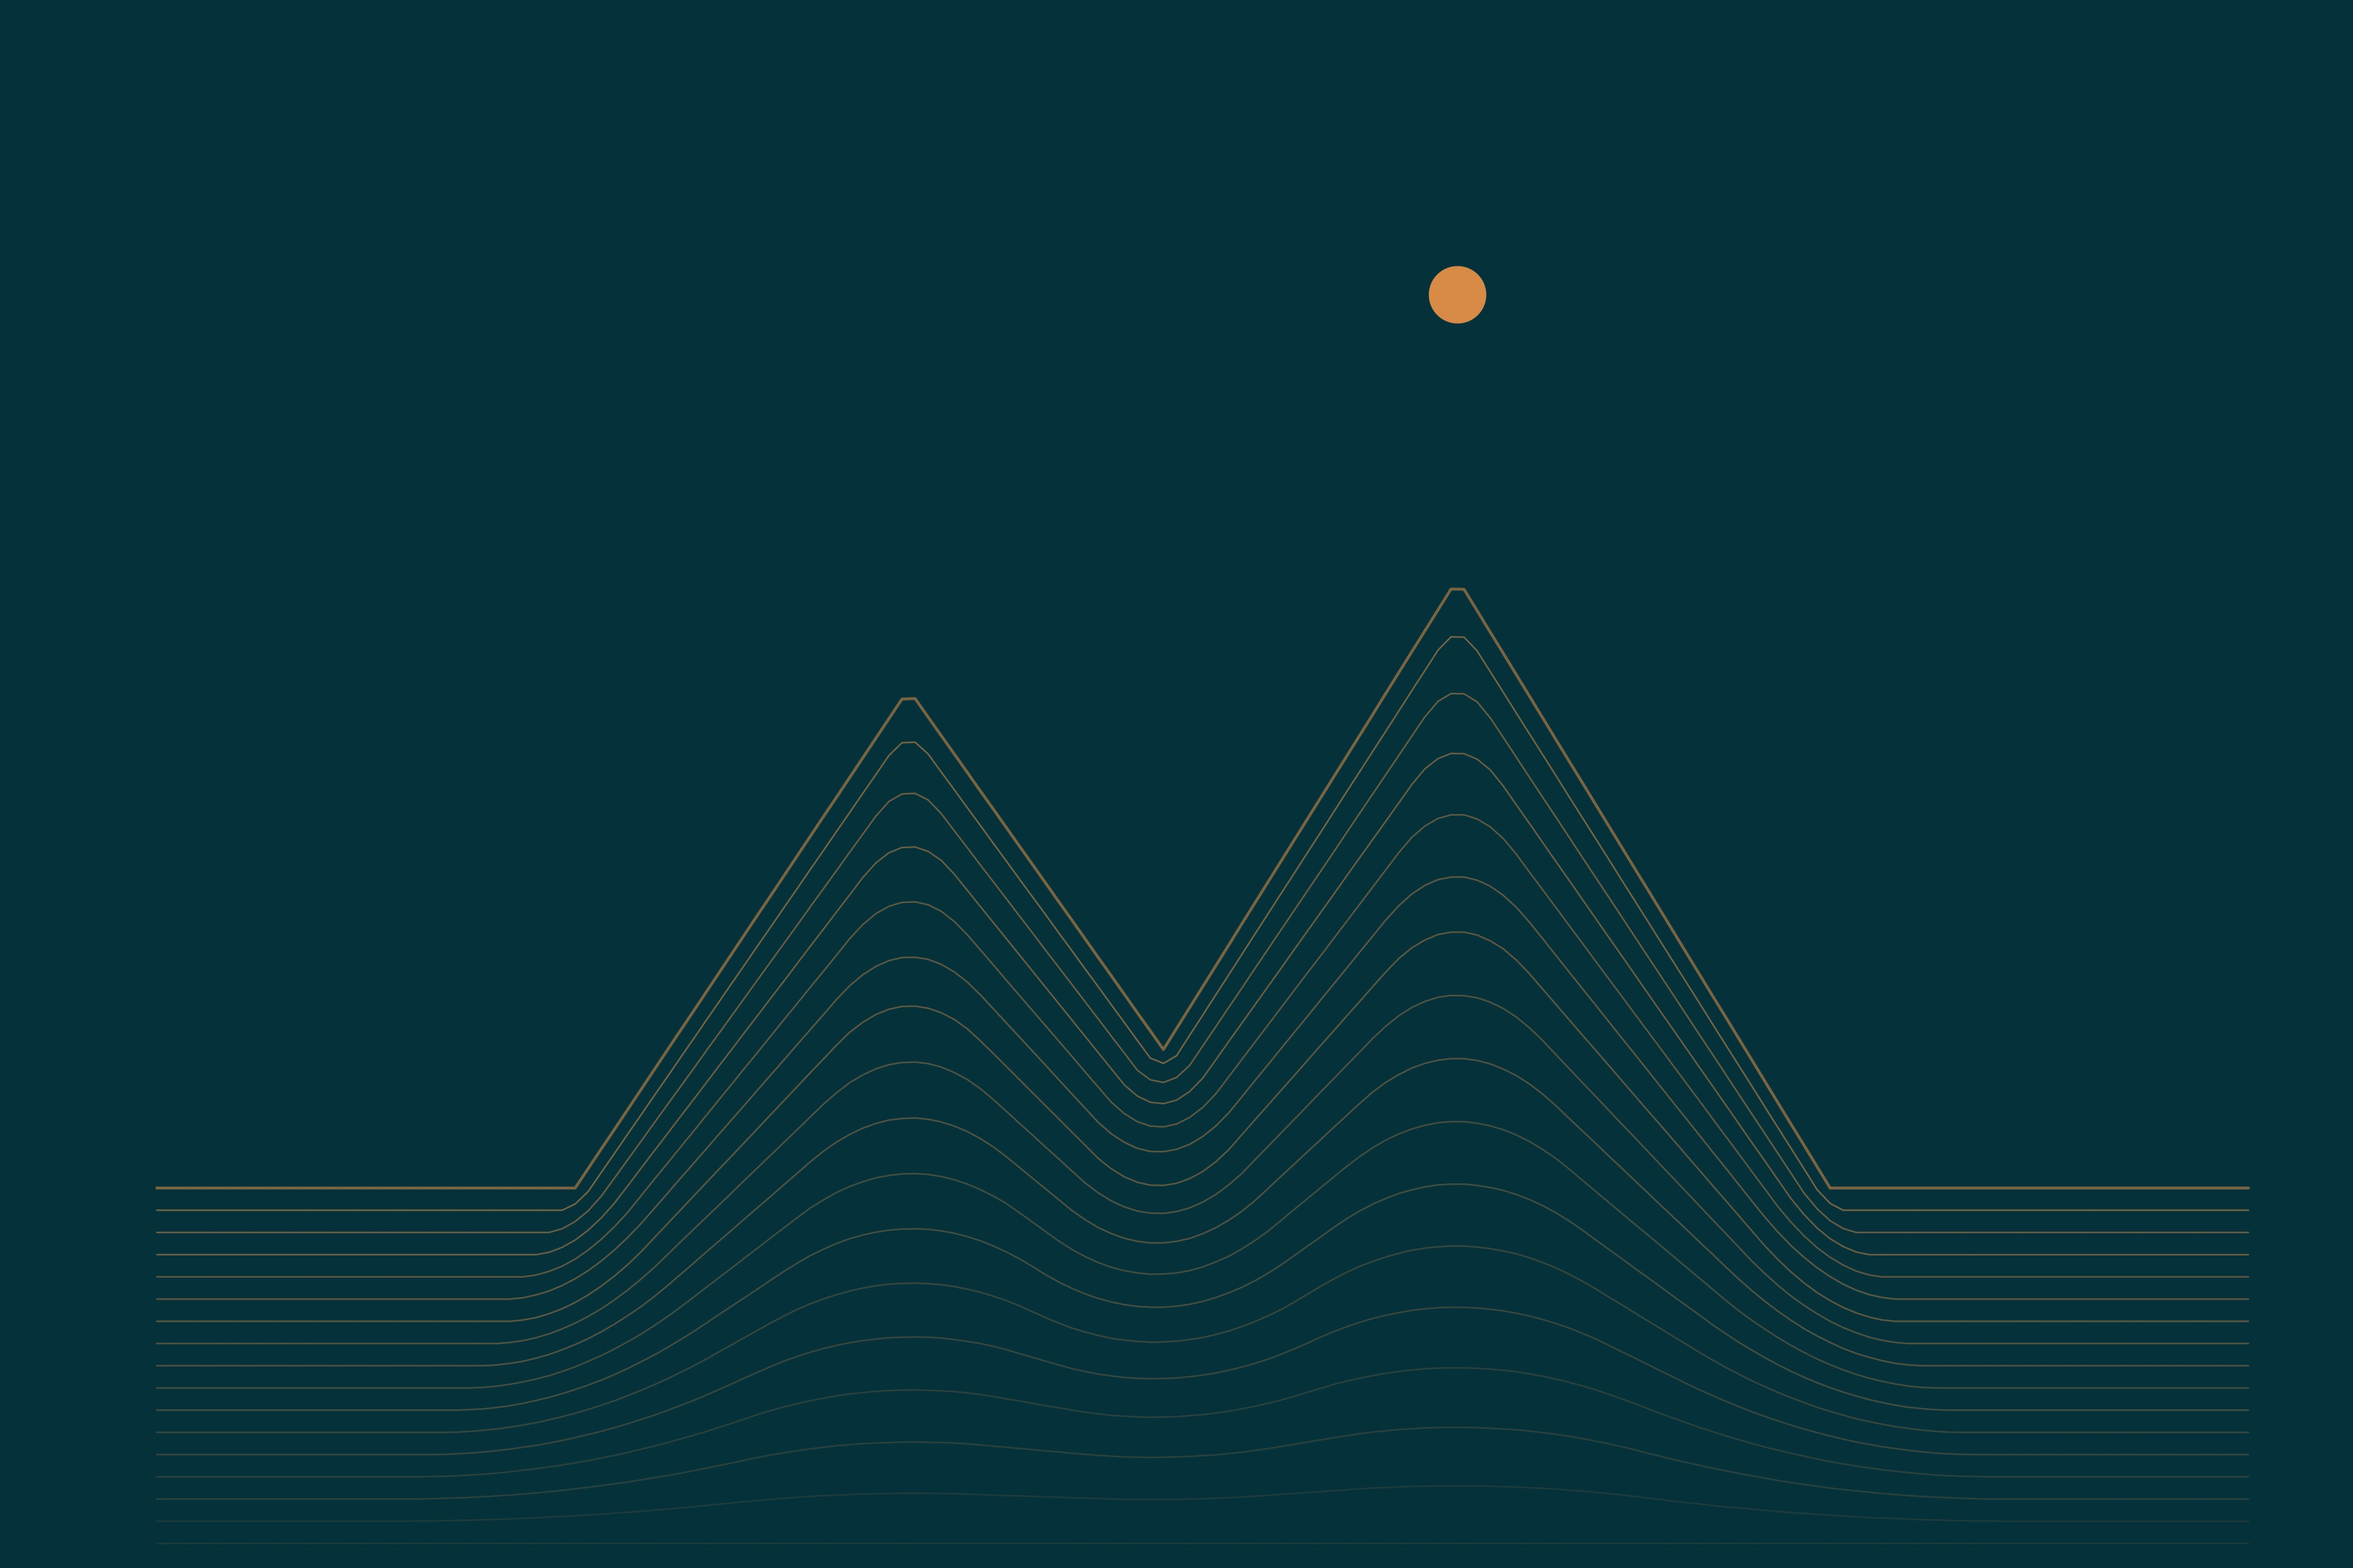
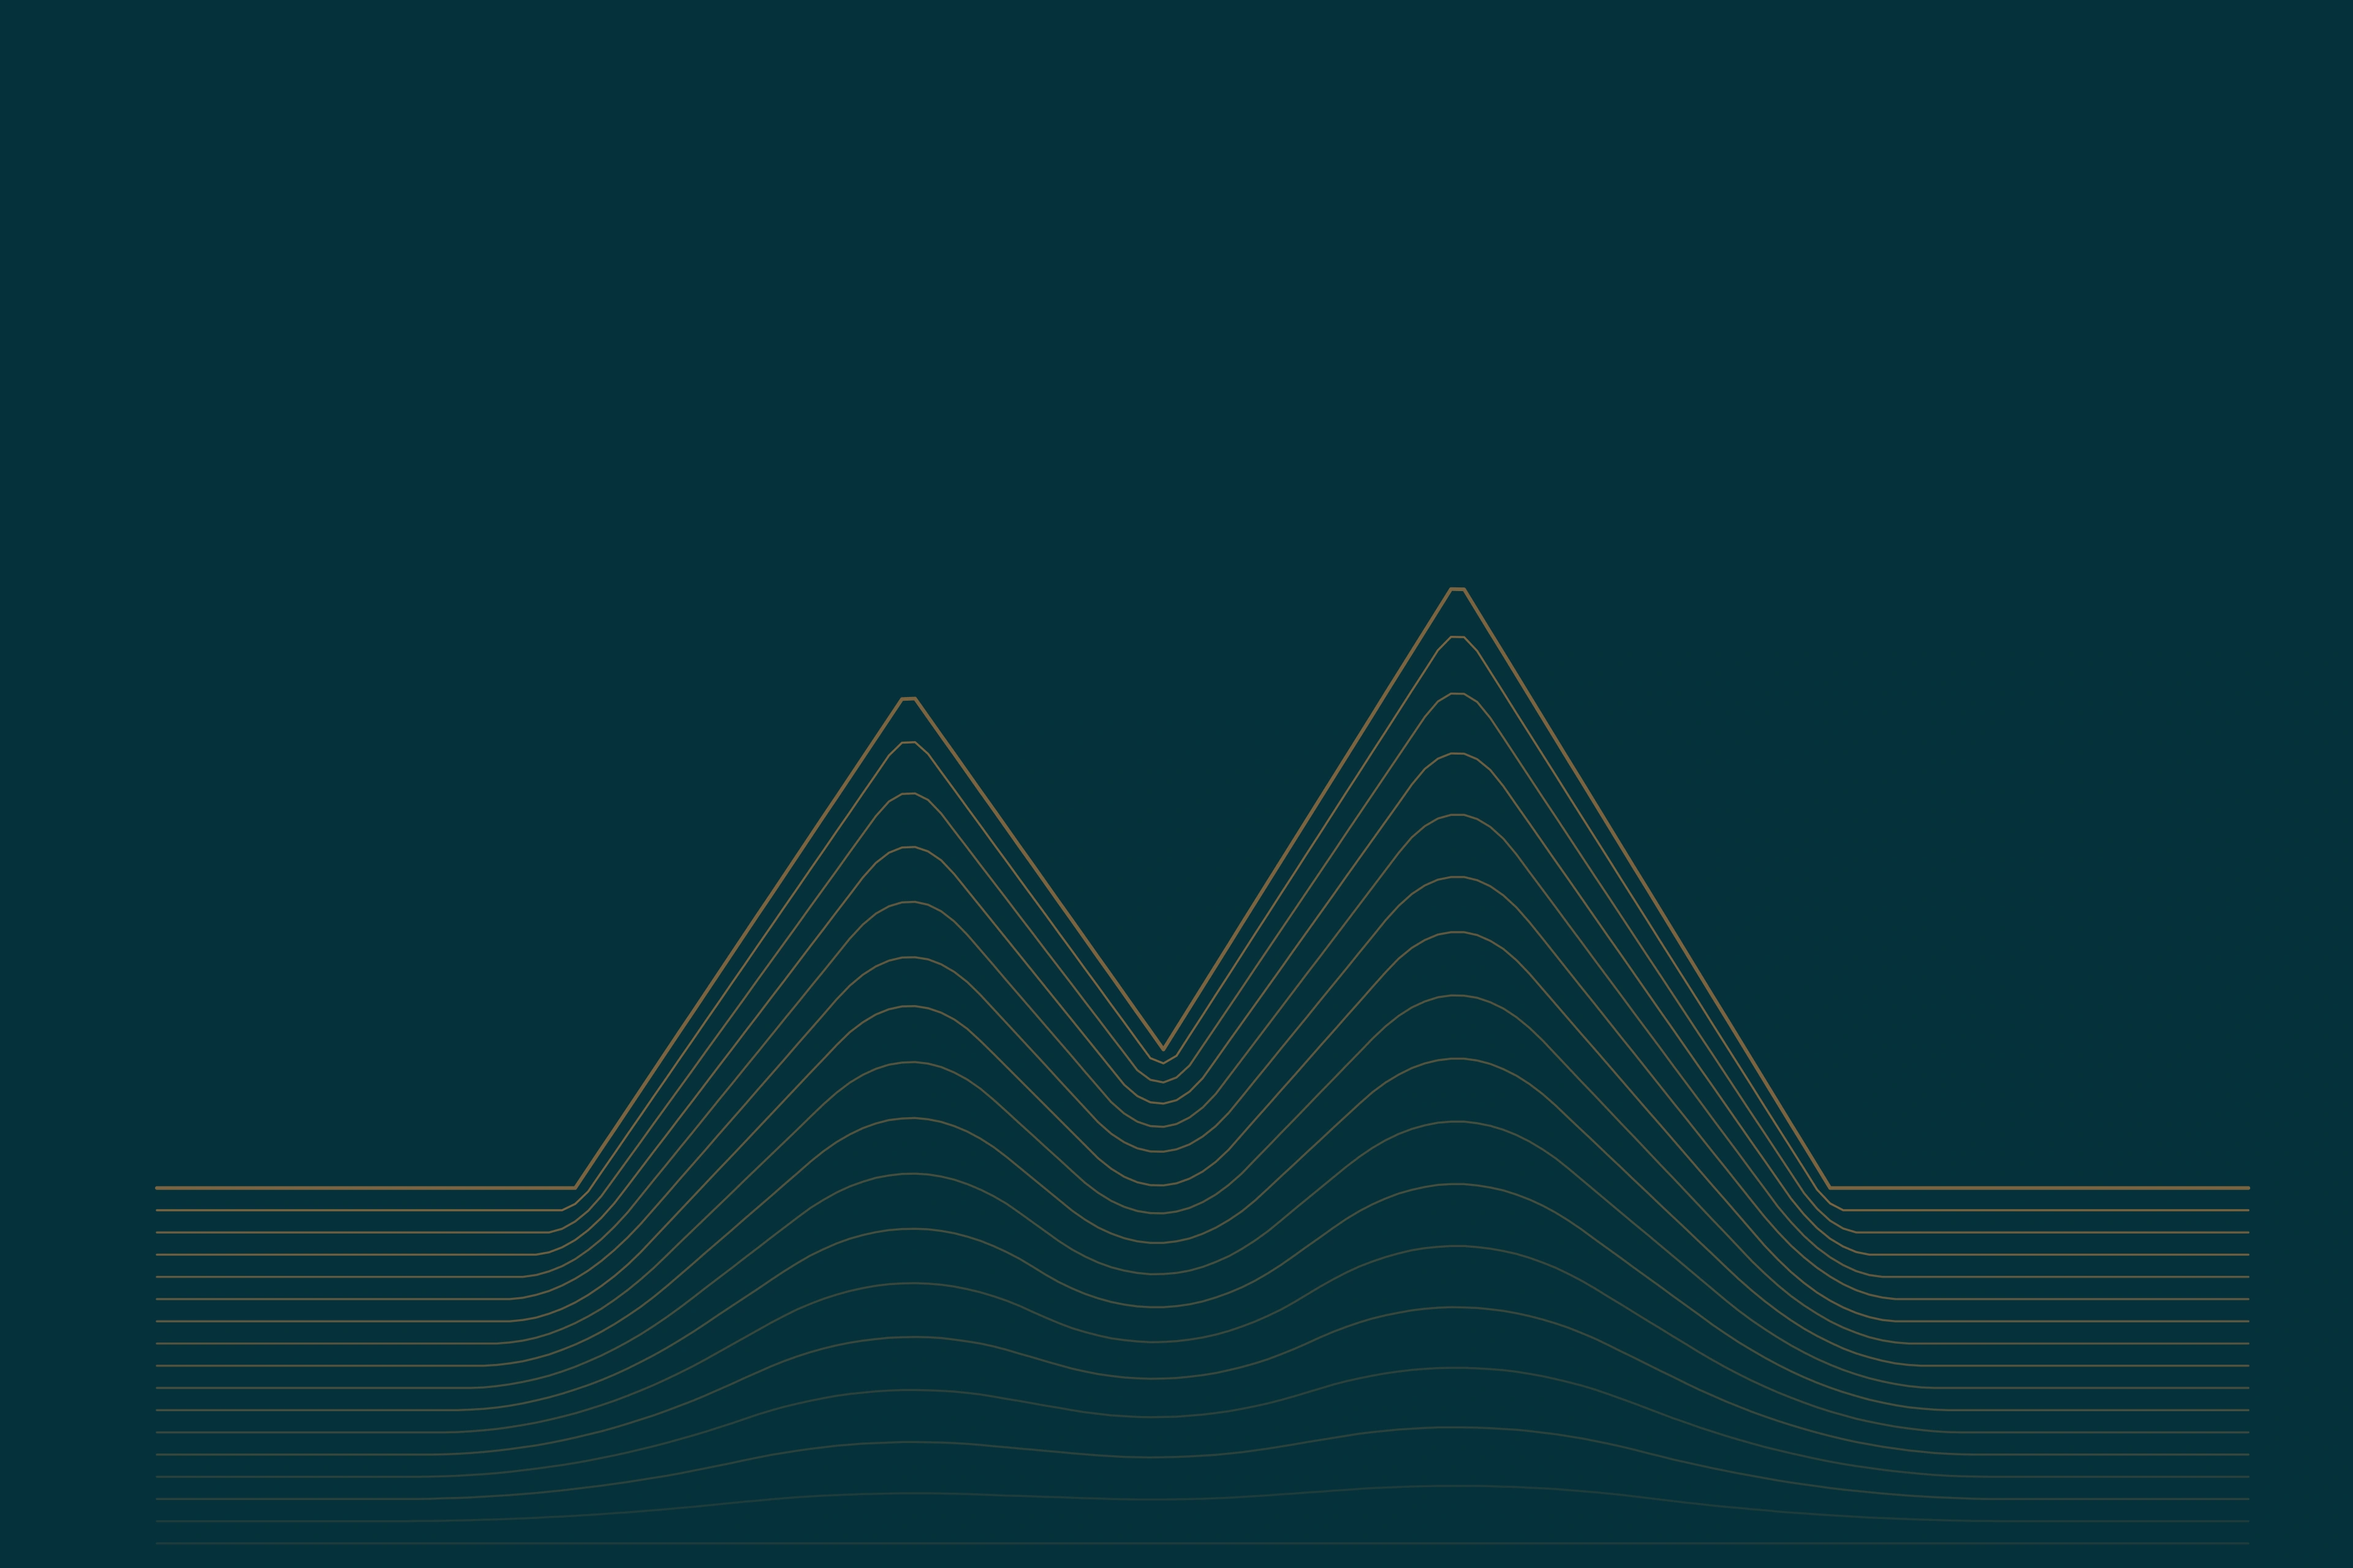
Take the goal out of the raster backgrounds and give the lines ink
Two findings from review on the deployed preview.

The amber goal was being cover-cropped at random. The placeholder masters
are 3:2, but post heroes crop them to roughly 2:1 and the og size to
1200x630 — so where the goal landed was luck, and on the multi-omics post
it sat half-decapitated at the top of the frame behind the nav. The
rasters are backgrounds; composition there cannot be controlled. They are
now the mountain alone, and the goal appears only in the live svg heroes,
where it is placed deliberately. Alt text follows.

The hairlines read as pixelated on DPR-1 displays — correctly reported,
and not an artefact. Strokes were 2.4px at the 3840 master, which is 1.2
device pixels after the w=1920 downscale a non-retina screen receives: a
line that is mostly anti-aliasing by area, with AVIF quantisation
nibbling the rest. Retina screens got 2.4 device pixels, which is why it
looked fine there and kept feeling inconsistent. Weights are now chosen
for the worst display, not the best: 3.4-3.6px at the master, ~1.7 device
pixels at DPR 1 — enough ink to hold an edge — and ~1.7 CSS px hairlines
on retina, verified with device-pixel crops at both densities.

Changed region(s): [[0.5938, 0.1562, 0.625, 0.2188]]

diff --git a/scripts/generate-seed-imagery.ts b/scripts/generate-seed-imagery.ts
@@ -12,7 +12,19 @@
  * They are rendered at 3840 wide — the largest width Next's optimizer will
  * ever request — so no screen receives an upscale. The earlier sets (1600,
  * then 2800) were being stretched ~1.4x on retina laptops, and interpolation
- * smears exactly what this artwork is made of: hairline strokes. The grounds are flat: a
+ * smears exactly what this artwork is made of: hairline strokes.
+ *
+ * Stroke weights are chosen for the WORST display, not the best: a DPR-1
+ * screen shows these at half the master's pixels, and a 2.4px master stroke
+ * lands there as 1.2 devices pixels — a line that is mostly anti-aliasing by
+ * area, which reads as pixelation. 3.4px keeps it a hairline on retina
+ * (~1.7 CSS px) while giving DPR-1 enough ink to hold an edge.
+ *
+ * No amber goal in any of these: they are used as cover-cropped backgrounds
+ * (post heroes crop 3:2 to roughly 2:1, the og size crops to 1200x630), so
+ * where the goal lands is luck — cut at the frame edge more often than not.
+ * The goal appears only in the live svg heroes, where composition is
+ * controlled. The grounds are flat: a
  * gradient at this size posterises into visible bands, and the contour field
  * is what carries the depth anyway.
  *
@@ -45,15 +57,14 @@ const assets: Asset[] = [
     file: 'mhg-hero.webp',
     width: 3840,
     height: 2160,
-    note: 'full-bleed 16:9 — home CTA band and media blocks',
+    note: 'full-bleed 16:9 — home CTA band and media blocks (mountain only, no goal)',
     svg: ridgeSVG({
       width: 3840,
       height: 2160,
       ground: BRAND_COLORS.deep,
       stroke: BRAND_COLORS.reversed,
-      accent: BRAND_COLORS.amberOnDark,
       lines: MAX_UNCLIPPED_LINES,
-      strokePx: 2.6,
+      strokePx: 3.6,
       fieldOpacity: 0.68,
       // Pushed right, so the flat left third stays clear for overlaid type.
       bias: 0.55,
@@ -70,7 +81,7 @@ const assets: Asset[] = [
       ground: BRAND_COLORS.petrol,
       stroke: BRAND_COLORS.reversed,
       lines: MAX_UNCLIPPED_LINES,
-      strokePx: 2.4,
+      strokePx: 3.4,
       fieldOpacity: 0.5,
       bias: -0.35,
     }),
@@ -79,15 +90,14 @@ const assets: Asset[] = [
     file: 'mhg-card-amber.webp',
     width: 3840,
     height: 2560,
-    note: '3:2 — the Forum hero and anything that should carry the goal',
+    note: '3:2 — the Forum hero and card art, drawn in amber',
     svg: ridgeSVG({
       width: 3840,
       height: 2560,
       ground: BRAND_COLORS.deep,
       stroke: BRAND_COLORS.amberOnDark,
-      accent: BRAND_COLORS.amberOnDark,
       lines: MAX_UNCLIPPED_LINES,
-      strokePx: 2.4,
+      strokePx: 3.4,
       fieldOpacity: 0.62,
       bias: 0.2,
     }),

diff --git a/src/endpoints/seed/index.ts b/src/endpoints/seed/index.ts
@@ -90,7 +90,7 @@ export const seed = async ({
       payload.create({
         collection: 'media',
         data: {
-          alt: 'The Mental Health Goals ridge — contour lines rising to a twin summit, the amber goal above it, on a deep petrol ground',
+          alt: 'The Mental Health Goals ridge — contour lines rising to a twin summit on a deep petrol ground',
         },
         file: localFile('mhg-hero.webp'),
       }),
@@ -104,7 +104,7 @@ export const seed = async ({
       payload.create({
         collection: 'media',
         data: {
-          alt: 'The Mental Health Goals ridge drawn in amber — contour lines rising to a twin summit, the goal above it, on a deep petrol ground',
+          alt: 'The Mental Health Goals ridge drawn in amber — contour lines rising to a twin summit on a deep petrol ground',
         },
         file: localFile('mhg-card-amber.webp'),
       }),
